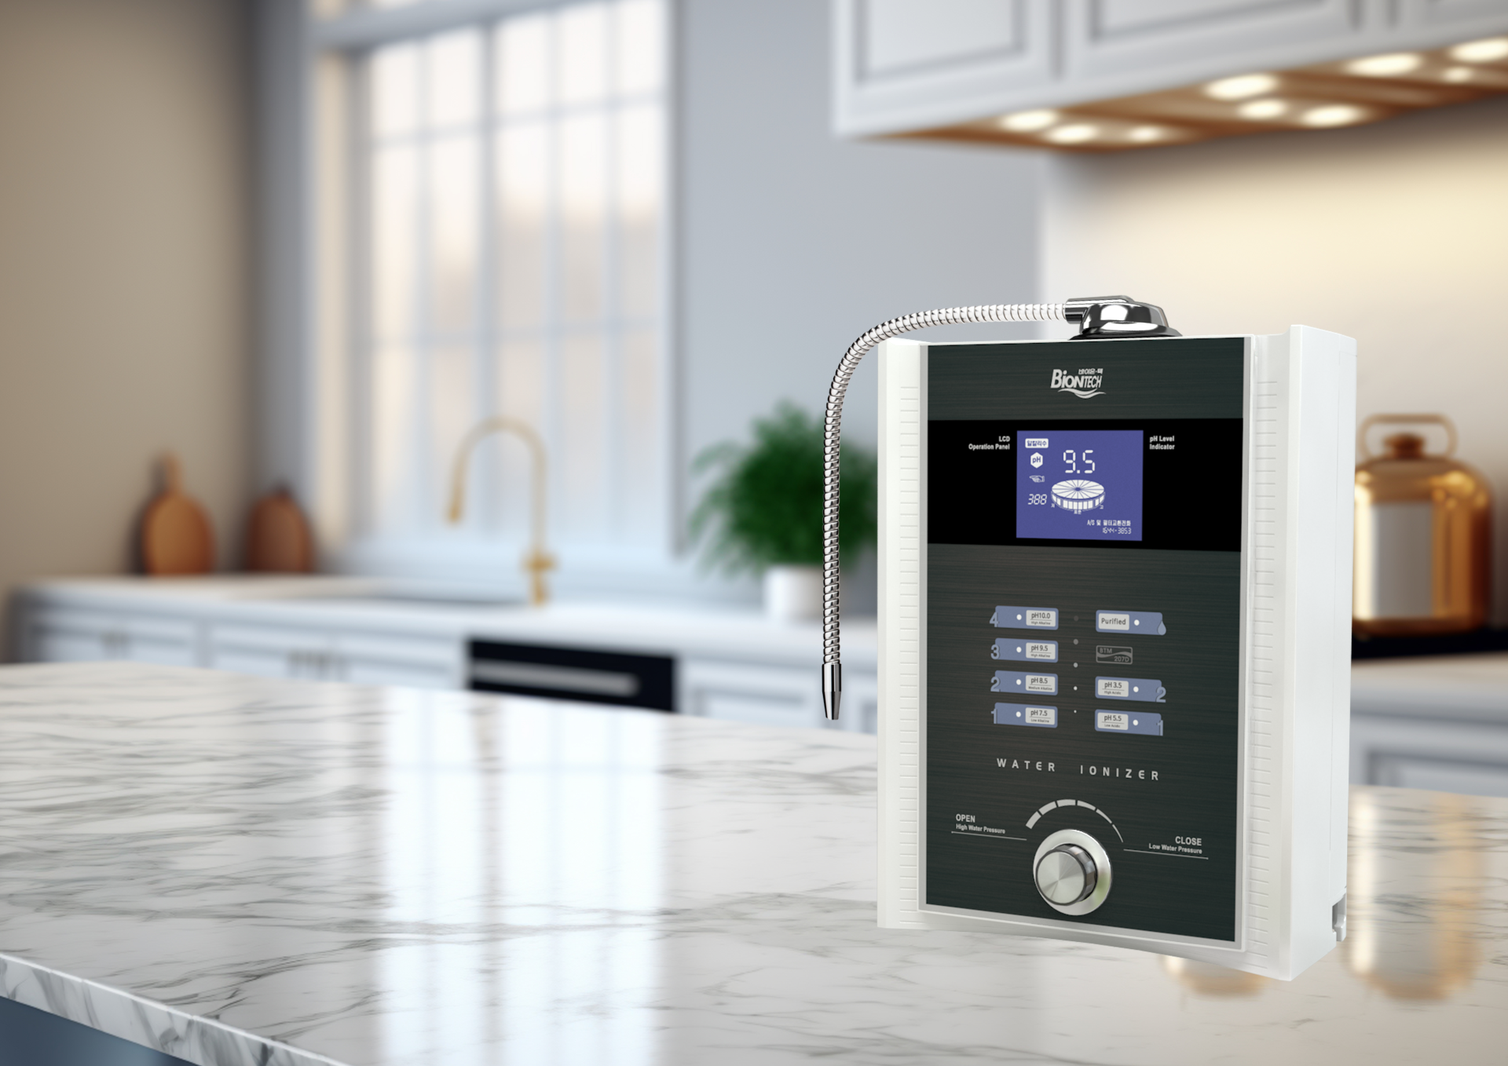
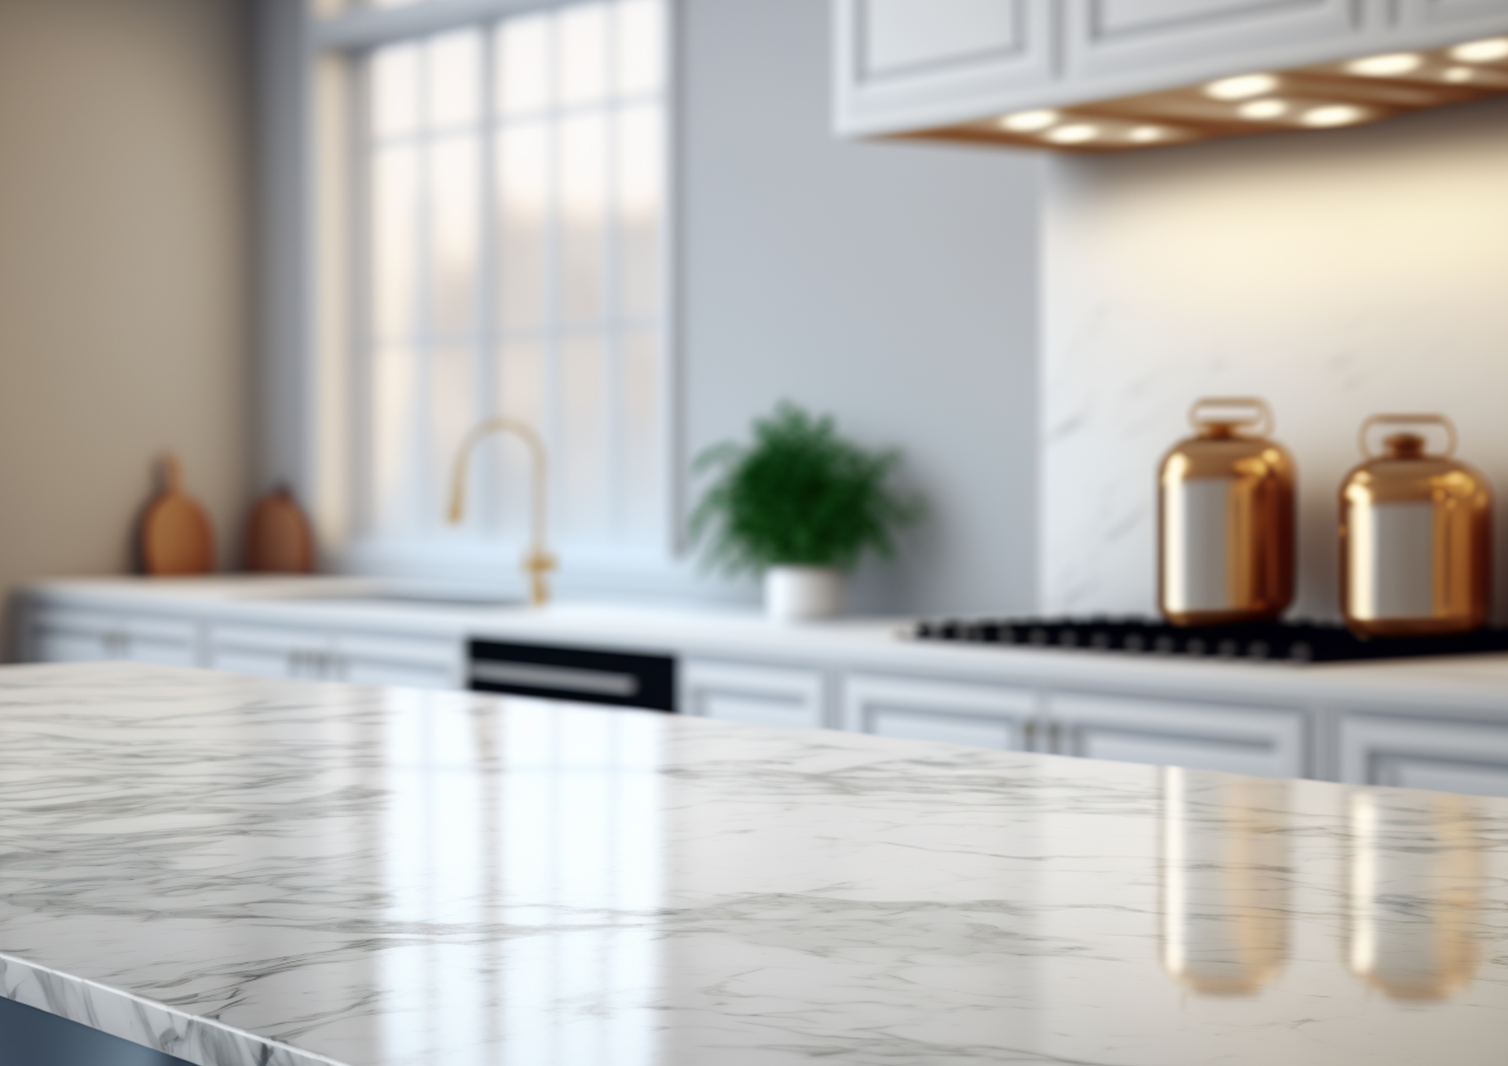
Product hero images updated

Changed region(s): [[0.5312, 0.2784, 0.9062, 0.9278]]

diff --git a/public/index.html b/public/index.html
@@ -86,7 +86,7 @@
                         <img src="images/background/BTM-501-title-bg.png"
                             class="max-w-full w-full h-full object-cover object-center" alt="">
                     </div>
-                    <div class="container h-full relative py-20 flex flex-col justify-center max-md:space-y-6 z-10">
+                    <div class="container h-full relative py-28 md:py-20 flex flex-col justify-center max-md:space-y-6 z-10">
                         <div class="lg:w-1/2 relative lg:pr-10 space-y-6 shrink-0">
                             <h1 class="text-2xl md:text-4xl font-bold text-white !leading-snug">Bring Home Biontech Water Ionizer
                                 For Anti-Oxidant Hydrogen Rich Alkaline Water</h1>
@@ -106,16 +106,16 @@
                             </div>
                             <a href="products/btm501.html" class="btn">Learn more</a>
                         </div>
-                        <!-- <div class="product-img md:absolute bottom-14 right-0 shrink-0">
-                                            <img src="images/general/hero-slide-product.png" class="max-md:max-w-[250px] md:max-w-xs">
-                                        </div> -->
+                        <div class="product-img md:absolute bottom-14 right-0 shrink-0">
+                            <img src="images/products/BTM501.png" class="max-md:max-w-[250px] md:max-w-sm lg:max-w-xl">
+                        </div>
                     </div>
                 </div>
                 <div class="w-full h-full relative flex">
                     <div class="bg-image absolute top-0 left-0 w-full h-full">
                         <img src="images/background/BTM-505N-title-bg.png" class="max-w-full w-full h-full object-cover max-md:object-left md:object-center" alt="">
                     </div>
-                    <div class="container h-full relative py-20 flex flex-col justify-center max-md:space-y-6 z-10">
+                    <div class="container h-full relative py-28 md:py-20 flex flex-col justify-center max-md:space-y-6 z-10">
                         <div class="lg:w-1/2 relative lg:pr-10 space-y-6 shrink-0">
                             <h1 class="text-2xl md:text-4xl font-bold text-white !leading-snug">Bring Home Biontech Water Ionizer For Anti-Oxidant Hydrogen Rich Alkaline Water</h1>
                             <div class="flex items-center space-x-6">
@@ -142,7 +142,7 @@
                         <img src="images/background/BTM-505N-2-title-bg.png"
                             class="max-w-full w-full h-full object-cover max-md:object-left md:object-bottom" alt="">
                     </div>
-                    <div class="container h-full relative py-20 flex flex-col justify-center max-md:space-y-6 z-10">
+                    <div class="container h-full relative py-28 md:py-20 flex flex-col justify-center max-md:space-y-6 z-10">
                         <div class="lg:w-1/2 relative lg:pr-10 space-y-6 shrink-0">
                             <h1 class="text-2xl md:text-4xl font-bold text-white !leading-snug">All-in-One Water Ionizer with
                                 Digital Faucet & Adjustable pH Water for every purpose!</h1>
@@ -162,16 +162,16 @@
                             </div>
                             <a href="products/btm505N-under-the-sink.html" class="btn">Learn more</a>
                         </div>
-                        <!-- <div class="product-img md:absolute bottom-14 right-0 shrink-0">
-                                            <img src="images/general/hero-slide-product.png" class="max-md:max-w-[250px] md:max-w-xs">
-                                        </div> -->
+                        <div class="product-img md:absolute bottom-14 md:bottom-20 2xl:bottom-28 right-0 shrink-0">
+                            <img src="images/products/BTM-505N-digital-faucet-hero.png" class="max-md:max-w-[250px] md:max-w-sm lg:max-w-xl">
+                        </div>
                     </div>
                 </div>
                 <div class="w-full h-full relative flex">
                     <div class="bg-image absolute top-0 left-0 w-full h-full">
                         <img src="images/background/BTM-303D-title-bg.png" class="max-w-full w-full h-full object-cover max-md:object-left md:object-center" alt="">
                     </div>
-                    <div class="container h-full relative py-20 flex flex-col justify-center max-md:space-y-6 z-10">
+                    <div class="container h-full relative py-28 md:py-20 flex flex-col justify-center max-md:space-y-10 z-10">
                         <div class="lg:w-1/2 relative lg:pr-10 space-y-6 shrink-0">
                             <h1 class="text-2xl md:text-4xl font-bold text-black !leading-snug">Smart water, Smart choices, Smart lifestyle</h1>
                             <div class="flex items-center space-x-6">
@@ -188,16 +188,16 @@
                             </div>
                             <a href="products/btm303D.html" class="btn">Learn more</a>
                         </div>
-                        <!-- <div class="product-img md:absolute bottom-14 right-0 shrink-0">
-                            <img src="images/general/hero-slide-product.png" class="max-md:max-w-[250px] md:max-w-xs">
-                        </div> -->
+                        <div class="product-img md:absolute bottom-10 md:bottom-56 right-0 shrink-0">
+                            <img src="images/products/BTM-303D.png" class="max-md:max-w-[250px] md:max-w-sm lg:max-w-xl">
+                        </div>
                     </div>
                 </div>
                 <div class="w-full h-full relative flex">
                     <div class="bg-image absolute top-0 left-0 w-full h-full">
                         <img src="images/background/BTM-100N-title-bg.png" class="max-w-full w-full h-full object-cover max-md:object-left md:object-center" alt="">
                     </div>
-                    <div class="container h-full relative py-20 flex flex-col justify-center max-md:space-y-6 z-10">
+                    <div class="container h-full relative py-28 md:py-20 flex flex-col justify-center max-md:space-y-6 z-10">
                         <div class="lg:w-1/2 relative lg:pr-12 space-y-6 shrink-0">
                             <h1 class="text-2xl md:text-4xl font-bold text-black !leading-snug">Elevate Your Hydration Game with Alkaline Water!</h1>
                             <div class="flex items-center space-x-6">
@@ -215,7 +215,7 @@
                             <a href="products/btm100N.html" class="btn">Learn more</a>
                         </div>
                         <div class="product-img md:absolute bottom-14 right-0 shrink-0">
-                            <img src="images/products/BTM-100N.png" class="max-md:max-w-[250px] md:max-w-xs">
+                            <img src="images/products/BTM-100N.png" class="max-md:max-w-[250px] md:max-w-sm lg:max-w-xl">
                         </div>
                     </div>
                 </div>

diff --git a/public/css/app.css b/public/css/app.css
@@ -511,6 +511,18 @@ video {
 .top-36{
   top: 9rem;
 }
+.bottom-5{
+  bottom: 1.25rem;
+}
+.right-36{
+  right: 9rem;
+}
+.right-1\/3{
+  right: 33.333333%;
+}
+.right-1\/4{
+  right: 25%;
+}
 .z-10{
   z-index: 10;
 }
@@ -1264,6 +1276,10 @@ video {
 .py-8{
   padding-top: 2rem;
   padding-bottom: 2rem;
+}
+.py-28{
+  padding-top: 7rem;
+  padding-bottom: 7rem;
 }
 .\!pb-0{
   padding-bottom: 0px !important;
@@ -3643,6 +3659,11 @@ header .navbar-menu > ul li .submenu ul li a:hover{
     margin-top: calc(1.5rem * calc(1 - var(--tw-space-y-reverse)));
     margin-bottom: calc(1.5rem * var(--tw-space-y-reverse));
   }
+  .max-md\:space-y-10 > :not([hidden]) ~ :not([hidden]){
+    --tw-space-y-reverse: 0;
+    margin-top: calc(2.5rem * calc(1 - var(--tw-space-y-reverse)));
+    margin-bottom: calc(2.5rem * var(--tw-space-y-reverse));
+  }
   .max-md\:object-cover{
     -o-object-fit: cover;
        object-fit: cover;
@@ -3681,6 +3702,9 @@ header .navbar-menu > ul li .submenu ul li a:hover{
   }
   .max-sm\:h-96{
     height: 24rem;
+  }
+  .max-sm\:max-w-\[250px\]{
+    max-width: 250px;
   }
   .max-sm\:flex-col{
     flex-direction: column;
@@ -3730,6 +3754,21 @@ header .navbar-menu > ul li .submenu ul li a:hover{
 @media (min-width: 768px){
   .md\:absolute{
     position: absolute;
+  }
+  .md\:bottom-20{
+    bottom: 5rem;
+  }
+  .md\:bottom-28{
+    bottom: 7rem;
+  }
+  .md\:bottom-36{
+    bottom: 9rem;
+  }
+  .md\:bottom-48{
+    bottom: 12rem;
+  }
+  .md\:bottom-56{
+    bottom: 14rem;
   }
   .md\:my-16{
     margin-top: 4rem;
@@ -3819,6 +3858,9 @@ header .navbar-menu > ul li .submenu ul li a:hover{
   }
   .md\:max-w-xs{
     max-width: 20rem;
+  }
+  .md\:max-w-xl{
+    max-width: 36rem;
   }
   .md\:grid-cols-2{
     grid-template-columns: repeat(2, minmax(0, 1fr));
@@ -3998,6 +4040,12 @@ header .navbar-menu > ul li .submenu ul li a:hover{
   .lg\:max-w-sm{
     max-width: 24rem;
   }
+  .lg\:max-w-xl{
+    max-width: 36rem;
+  }
+  .lg\:max-w-lg{
+    max-width: 32rem;
+  }
   .lg\:-translate-x-1\/2{
     --tw-translate-x: -50%;
     transform: translate(var(--tw-translate-x), var(--tw-translate-y)) rotate(var(--tw-rotate)) skewX(var(--tw-skew-x)) skewY(var(--tw-skew-y)) scaleX(var(--tw-scale-x)) scaleY(var(--tw-scale-y));
@@ -4087,6 +4135,11 @@ header .navbar-menu > ul li .submenu ul li a:hover{
   .xl\:py-60{
     padding-top: 15rem;
     padding-bottom: 15rem;
+  }
+}
+@media (min-width: 1536px){
+  .\32xl\:bottom-28{
+    bottom: 7rem;
   }
 }
 .\[\&\:not\(\:hover\)\]\:\!bg-\[\#F49828\]:not(:hover){

diff --git a/public/products/bth100p.html b/public/products/bth100p.html
@@ -84,7 +84,7 @@
                 <div class="bg-image absolute top-0 left-0 w-full h-full">
                     <img src="../images/background/BTH-100P-title-bg.png" class="max-w-full w-full h-full object-cover max-md:object-left md:object-top" alt="">
                 </div>
-                <div class="container h-full relative py-20 flex flex-col justify-center max-md:space-y-6 z-10">
+                <div class="container h-full relative py-28 md:py-20 flex flex-col justify-center max-md:space-y-6 z-10">
                     <div class="lg:w-1/2 relative space-y-6 shrink-0 mr-0 ml-auto md:text-right md:pl-10">
                         <h1 class="text-2xl md:text-4xl font-bold text-white !leading-snug max-w-lg mr-0 ml-auto">Get Healthy Alkaline Water Anytime, Anywhere with Biontech Hydrogen Water Generator</h1>
                         <div class="w-full flex items-center space-x-6 md:justify-end">
@@ -100,9 +100,9 @@
                             </div>
                         </div>
                     </div>
-                    <!-- <div class="product-img md:absolute bottom-14 right-0 shrink-0">
-                        <img src="../images/products/BTH-101T.png" class="max-md:max-w-[250px] md:max-w-md">
-                    </div> -->
+                    <div class="product-img md:absolute bottom-0 right-1/4 shrink-0">
+                        <img src="../images/products/BTH-100P.png" class="max-md:max-w-[250px] md:max-w-sm lg:max-w-md">
+                    </div>
                 </div>
             </div>
         </section>

diff --git a/public/products/btm505N-under-the-sink.html b/public/products/btm505N-under-the-sink.html
@@ -84,7 +84,7 @@
                 <div class="bg-image absolute top-0 left-0 w-full h-full">
                     <img src="../images/background/BTM-505N-2-title-bg.png" class="max-w-full w-full h-full object-cover max-md:object-left md:object-bottom" alt="">
                 </div>
-                <div class="container h-full relative py-20 flex flex-col justify-center max-md:space-y-6 z-10">
+                <div class="container h-full relative py-28 md:py-20 flex flex-col justify-center max-md:space-y-6 z-10">
                     <div class="lg:w-1/2 relative lg:pr-10 space-y-6 shrink-0">
                         <h1 class="text-2xl md:text-4xl font-bold text-white !leading-snug max-w-md">All-in-One Water Ionizer with Digital Faucet & Adjustable pH Water for every purpose!</h1>
                         <div class="flex items-center space-x-6">
@@ -100,9 +100,9 @@
                             </div>
                         </div>
                     </div>
-                    <!-- <div class="product-img md:absolute bottom-14 right-0 shrink-0">
-                        <img src="../images/general/hero-slide-product.png" class="max-md:max-w-[250px] md:max-w-md">
-                    </div> -->
+                    <div class="product-img md:absolute bottom-14 md:bottom-20 2xl:bottom-28 right-0 shrink-0">
+                        <img src="../images/products/BTM-505N-digital-faucet-hero.png" class="max-md:max-w-[250px] md:max-w-sm lg:max-w-xl">
+                    </div>
                 </div>
             </div>
         </section>

diff --git a/public/products/btm2000.html b/public/products/btm2000.html
@@ -82,9 +82,9 @@
         <section class="hero-section overflow-hidden h-auto md:h-screen md:min-h-screen">
             <div class="w-full h-full relative flex">
                 <div class="bg-image absolute top-0 left-0 w-full h-full">
-                    <img src="../images/background/BTM-100N-title-bg.png" class="max-w-full w-full h-full object-cover max-md:object-left md:object-bottom" alt="">
+                    <img src="../images/background/BTM-2000-title-bg.png" class="max-w-full w-full h-full object-cover max-md:object-left md:object-bottom" alt="">
                 </div>
-                <div class="container h-full relative py-20 flex flex-col justify-center max-md:space-y-6 z-10">
+                <div class="container h-full relative py-28 md:py-20 flex flex-col justify-center max-md:space-y-6 z-10">
                     <div class="lg:w-1/2 relative lg:pr-10 space-y-6 shrink-0">
                         <h1 class="text-2xl md:text-4xl font-bold text-black !leading-snug max-w-md">Experience
                         Revolutionary
@@ -103,7 +103,7 @@
                         </div>
                     </div>
                     <div class="product-img md:absolute bottom-14 right-0 shrink-0">
-                        <img src="../images/products/BTM-2000.png" class="max-md:max-w-[250px] md:max-w-md">
+                        <img src="../images/products/BTM-2000.png" class="max-md:max-w-[250px] md:max-w-sm lg:max-w-xl">
                     </div>
                 </div>
             </div>

diff --git a/public/products/btm501.html b/public/products/btm501.html
@@ -84,7 +84,7 @@
                 <div class="bg-image absolute top-0 left-0 w-full h-full">
                     <img src="../images/background/BTM-501-title-bg.png" class="max-w-full w-full h-full object-cover max-md:object-left md:object-center" alt="">
                 </div>
-                <div class="container h-full relative py-20 flex flex-col justify-center max-md:space-y-6 z-10">
+                <div class="container h-full relative py-28 md:py-20 flex flex-col justify-center max-md:space-y-6 z-10">
                     <div class="lg:w-1/2 relative lg:pr-10 space-y-6 shrink-0">
                         <h1 class="text-2xl md:text-4xl font-bold text-white !leading-snug max-w-md">Bring Home Biontech Water Ionizer For Anti-Oxidant Hydrogen Rich Alkaline Water</h1>
                         <div class="flex items-center space-x-6">
@@ -99,9 +99,9 @@
                             </div>
                         </div>
                     </div>
-                    <!-- <div class="product-img md:absolute bottom-14 right-0 shrink-0">
-                        <img src="../images/products/BTM-505n.png" class="max-md:max-w-[250px] md:max-w-md">
-                    </div> -->
+                    <div class="product-img md:absolute bottom-14 right-0 shrink-0">
+                        <img src="../images/products/BTM501.png" class="max-md:max-w-[250px] md:max-w-sm lg:max-w-xl">
+                    </div>
                 </div>
             </div>
         </section>

diff --git a/public/products/btm303D.html b/public/products/btm303D.html
@@ -84,7 +84,7 @@
                 <div class="bg-image absolute top-0 left-0 w-full h-full">
                     <img src="../images/background/BTM-303D-title-bg.png" class="max-w-full w-full h-full object-cover max-md:object-left md:object-center" alt="">
                 </div>
-                <div class="container h-full relative py-20 flex flex-col justify-center max-md:space-y-6 z-10">
+                <div class="container h-full relative py-28 md:py-20 flex flex-col justify-center max-md:space-y-10 z-10">
                     <div class="lg:w-1/2 relative lg:pr-10 space-y-6 shrink-0">
                         <h1 class="text-2xl md:text-4xl font-bold text-black !leading-snug max-w-md">Smart water, Smart choices, Smart lifestyle</h1>
                         <div class="flex items-center space-x-6">
@@ -100,9 +100,9 @@
                             </div>
                         </div>
                     </div>
-                    <!-- <div class="product-img md:absolute bottom-14 right-0 shrink-0">
-                        <img src="../images/general/hero-slide-product.png" class="max-md:max-w-[250px] md:max-w-xs">
-                    </div> -->
+                    <div class="product-img md:absolute bottom-10 md:bottom-56 right-0 shrink-0">
+                        <img src="../images/products/BTM-303D.png" class="max-md:max-w-[250px] md:max-w-sm lg:max-w-xl">
+                    </div>
                 </div>
             </div>
         </section>

diff --git a/public/products/btm207D.html b/public/products/btm207D.html
@@ -84,7 +84,7 @@
                 <div class="bg-image absolute top-0 left-0 w-full h-full">
                     <img src="../images/background/BTM-207D-title-bg.png" class="max-w-full w-full h-full object-cover max-md:object-left md:object-center" alt="">
                 </div>
-                <div class="container h-full relative py-20 flex flex-col justify-center max-md:space-y-6 z-10">
+                <div class="container h-full relative py-28 md:py-20 flex flex-col justify-center max-md:space-y-6 z-10">
                     <div class="lg:w-1/2 relative lg:pr-10 space-y-6 shrink-0">
                         <h1 class="text-2xl md:text-4xl font-bold text-black !leading-snug max-w-md">Experience Revolutionary Hydration with</h1>
                         <div class="flex items-center space-x-6">
@@ -100,9 +100,9 @@
                             </div>
                         </div>
                     </div>
-                    <!-- <div class="product-img md:absolute bottom-14 right-0 shrink-0">
-                        <img src="../images/general/hero-slide-product.png" class="max-md:max-w-[250px] md:max-w-xs">
-                    </div> -->
+                    <div class="product-img md:absolute bottom-14 right-0 shrink-0">
+                        <img src="../images/products/BTM-207D.png" class="max-md:max-w-[250px] md:max-w-sm lg:max-w-xl">
+                    </div>
                 </div>
             </div>
         </section>

diff --git a/public/products/btm505N.html b/public/products/btm505N.html
@@ -84,7 +84,7 @@
                 <div class="bg-image absolute top-0 left-0 w-full h-full">
                     <img src="../images/background/BTM-505N-title-bg.png" class="max-w-full w-full h-full object-cover max-md:object-left md:object-top" alt="">
                 </div>
-                <div class="container h-full relative py-20 flex flex-col justify-center max-md:space-y-6 z-10">
+                <div class="container h-full relative py-28 md:py-20 flex flex-col justify-center max-md:space-y-6 z-10">
                     <div class="lg:w-1/2 relative lg:pr-10 space-y-6 shrink-0">
                         <h1 class="text-2xl md:text-4xl font-bold text-white !leading-snug max-w-md">Bring Home Biontech Water Ionizer For Anti-Oxidant Hydrogen Rich Alkaline Water</h1>
                         <div class="flex items-center space-x-6">
@@ -101,7 +101,7 @@
                         </div>
                     </div>
                     <div class="product-img md:absolute bottom-14 right-0 shrink-0">
-                        <img src="../images/products/BTM-505n.png" class="max-md:max-w-[250px] md:max-w-md">
+                        <img src="../images/products/BTM-505n.png" class="max-md:max-w-[250px] md:max-w-sm lg:max-w-xl">
                     </div>
                 </div>
             </div>

diff --git a/public/products/bth101t.html b/public/products/bth101t.html
@@ -84,7 +84,7 @@
                 <div class="bg-image absolute top-0 left-0 w-full h-full">
                     <img src="../images/background/BTH-101T-title-bg.png" class="max-w-full w-full h-full object-cover max-md:object-left md:object-top" alt="">
                 </div>
-                <div class="container h-full relative py-20 flex flex-col justify-center max-md:space-y-6 z-10">
+                <div class="container h-full relative py-28 md:py-20 flex flex-col justify-center max-md:space-y-6 z-10">
                     <div class="lg:w-1/2 relative lg:pr-10 space-y-6 shrink-0">
                         <h1 class="text-2xl md:text-4xl font-bold text-white !leading-snug max-w-md">The Secret to Optimal Health? Alkaline Water</h1>
                         <div class="flex items-center space-x-6">
@@ -101,7 +101,7 @@
                         </div>
                     </div>
                     <div class="product-img md:absolute bottom-14 right-0 shrink-0">
-                        <img src="../images/products/BTH-101T.png" class="max-md:max-w-[250px] md:max-w-md">
+                        <img src="../images/products/BTH-101T.png" class="max-md:max-w-[250px] md:max-w-sm lg:max-w-xl">
                     </div>
                 </div>
             </div>

diff --git a/public/products/btm3000.html b/public/products/btm3000.html
@@ -84,7 +84,7 @@
                 <div class="bg-image absolute top-0 left-0 w-full h-full">
                     <img src="../images/background/BTM-3000-title-bg-2.png" class="max-w-full w-full h-full object-cover max-md:object-left md:object-bottom" alt="">
                 </div>
-                <div class="container h-full relative py-20 flex flex-col justify-center max-md:space-y-6 z-10">
+                <div class="container h-full relative py-28 md:py-20 flex flex-col justify-center max-md:space-y-6 z-10">
                     <div class="lg:w-1/2 relative lg:pr-10 space-y-8 shrink-0">
                         <h1 class="text-2xl md:text-4xl font-bold text-white !leading-snug max-w-md">Healthy hydration for healthy living</h1>
                         <div class="flex items-center space-x-6">
@@ -127,7 +127,7 @@
                         </ul>
                     </div>
                     <div class="product-img md:absolute bottom-14 right-0 shrink-0">
-                        <img src="../images/products/BTM-3000.png" class="max-md:max-w-[250px] md:max-w-md">
+                        <img src="../images/products/BTM-3000.png" class="max-md:max-w-[250px] md:max-w-sm lg:max-w-lg">
                     </div>
                 </div>
             </div>

diff --git a/public/products/btm100N.html b/public/products/btm100N.html
@@ -84,7 +84,7 @@
                 <div class="bg-image absolute top-0 left-0 w-full h-full">
                     <img src="../images/background/BTM-100N-title-bg.png" class="max-w-full w-full h-full object-cover max-md:object-left md:object-bottom" alt="">
                 </div>
-                <div class="container h-full relative py-20 flex flex-col justify-center max-md:space-y-6 z-10">
+                <div class="container h-full relative py-28 md:py-20 flex flex-col justify-center max-md:space-y-6 z-10">
                     <div class="lg:w-1/2 relative lg:pr-10 space-y-6 shrink-0">
                         <h1 class="text-2xl md:text-4xl font-bold text-black !leading-snug max-w-md">Elevate Your Hydration Game with Alkaline Water!</h1>
                         <div class="flex items-center space-x-6">
